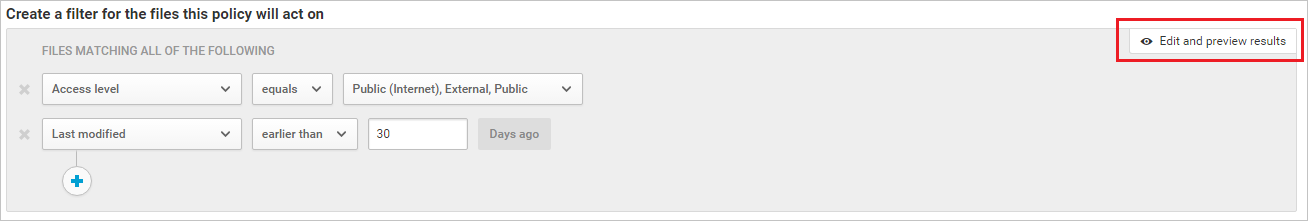
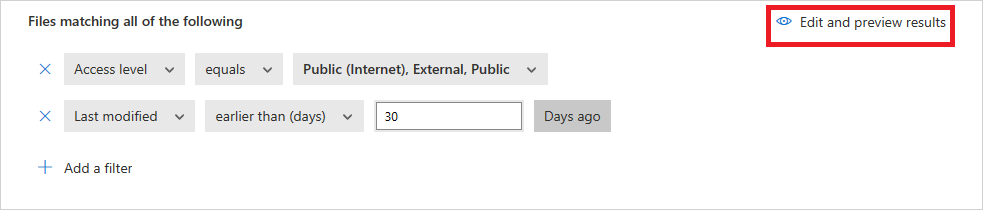
mar 6

diff --git a/CloudAppSecurityDocs/data-protection-policies.md b/CloudAppSecurityDocs/data-protection-policies.md
@@ -84,11 +84,11 @@ To create a new file policy, follow this procedure:
 
 1. Choose the **Governance** actions you want Defender for Cloud Apps to take when a match is detected.
 
-1. Once you've created your policy, you can view it by filtering for the **File policy** type. You can always edit a policy, calibrate its filters, or change the automated actions. The policy is automatically enabled upon creation and starts scanning your cloud files immediately.  Take extra care when you set governance actions, they could lead to irreversible loss of access permissions to your files. It's recommended to narrow down the filters to exactly represent the files that you wish to act upon, using multiple search fields. The narrower the filters, the better. For guidance, you can use the **Edit and preview results** button in the Filters section.
+1. Once you've created your policy, you can view it by filtering for the **File policy** type. You can always edit a policy, calibrate its filters, or change the automated actions. The policy is automatically enabled upon creation and starts scanning your cloud files immediately.  Take extra care when you set governance actions, they could lead to irreversible loss of access permissions to your files. It's recommended to narrow down the filters to exactly represent the files that you wish to act upon, using multiple search fields. The narrower the filters, the better. For guidance, you can use the **Edit and preview results** button next to the filters.
 
-    ![file policy edit and preview results.](media/file-policy-edit-and-preview-results.png)
+    ![File policy edit and preview results.](media/file-policy-edit-and-preview-results.png)
 
-1. To view file policy matches, files that are suspected to violate the policy, go to **Policies** -> **Policy management**. Filter the results to display only the file policies using the **Type** filter at the top. For more information about the matches for each policy, select a policy. This displays the "Matching now" files for the policy. Select the **History** tab to see a history back to up to six months of files that matched the policy.
+1. To view file policy matches, files that are suspected to violate the policy, go to **Policies** -> **Policy management**. Filter the results to display only the file policies using the **Type** filter at the top. For more information about the matches for each policy, under the **Count** column, select the number of **matches** for a policy. Alternatively, select the three dots at the end of the row for a policy and choose **View all matches**.  This opens the **File policy report**. Select the **Matching now** tab to see files that currently match the policy. Select the **History** tab to see a history back to up to six months of files that matched the policy.
 
 ## File policy best practices
 

diff --git a/CloudAppSecurityDocs/content-inspection.md b/CloudAppSecurityDocs/content-inspection.md
@@ -14,7 +14,7 @@ You can specify a regular expression to exclude a file from the results. This op
 
 You can decide set the minimum number of content violations that you want to match before the file is considered a violation. For example, you can choose 10 if you want to be alerted on files with at least 10 credit card numbers found within its content.
 
-When content is matched against the selected expression, the violation text is replaced with "X" characters. By default, violations are masked and shown in their context displaying 100 characters before and after the violation. Numbers in the context of the expression are replaced with "#" characters and are never stored within Defender for Cloud Apps. You can select the option to **Unmask the last four characters of a violation** to unmask the last four characters of the violation itself. It's necessary to set which data types the regular expression searches: content, metadata and/or file name. By default it searches the content and the metadata.
+When content is matched against the selected expression, the violation text is replaced with "X" characters. By default, violations are masked and shown in their context displaying 100 characters before and after the violation. Numbers in the context of the expression are replaced with "#" characters and are never stored within Defender for Cloud Apps. When creating a file policy, if you've enabled an inspection method, then you can select the option to **Unmask the last four characters of a match** to unmask the last four characters of the violation itself. It's necessary to set which data types the regular expression searches: content, metadata and/or file name. By default it searches the content and the metadata.
 
 ## Content inspection for protected files
 
@@ -23,7 +23,7 @@ Defender for Cloud Apps allows admins to grant Defender for Cloud Apps permissio
 In order to give Defender for Cloud Apps the necessary permissions:
 
 1. Go to **Settings** and then **Microsoft Information Protection**.
-2. Enable **Inspect protected files.**
+2. Under **Inspect protected files**, select **Grant permission** to grant Defender for Cloud Apps permission in Azure AD.
 3. Follow the prompt to allow the required permissions in Azure Active Directory.
 4. You can configure the settings per file policy to determine which policies will scan protected files.
 
